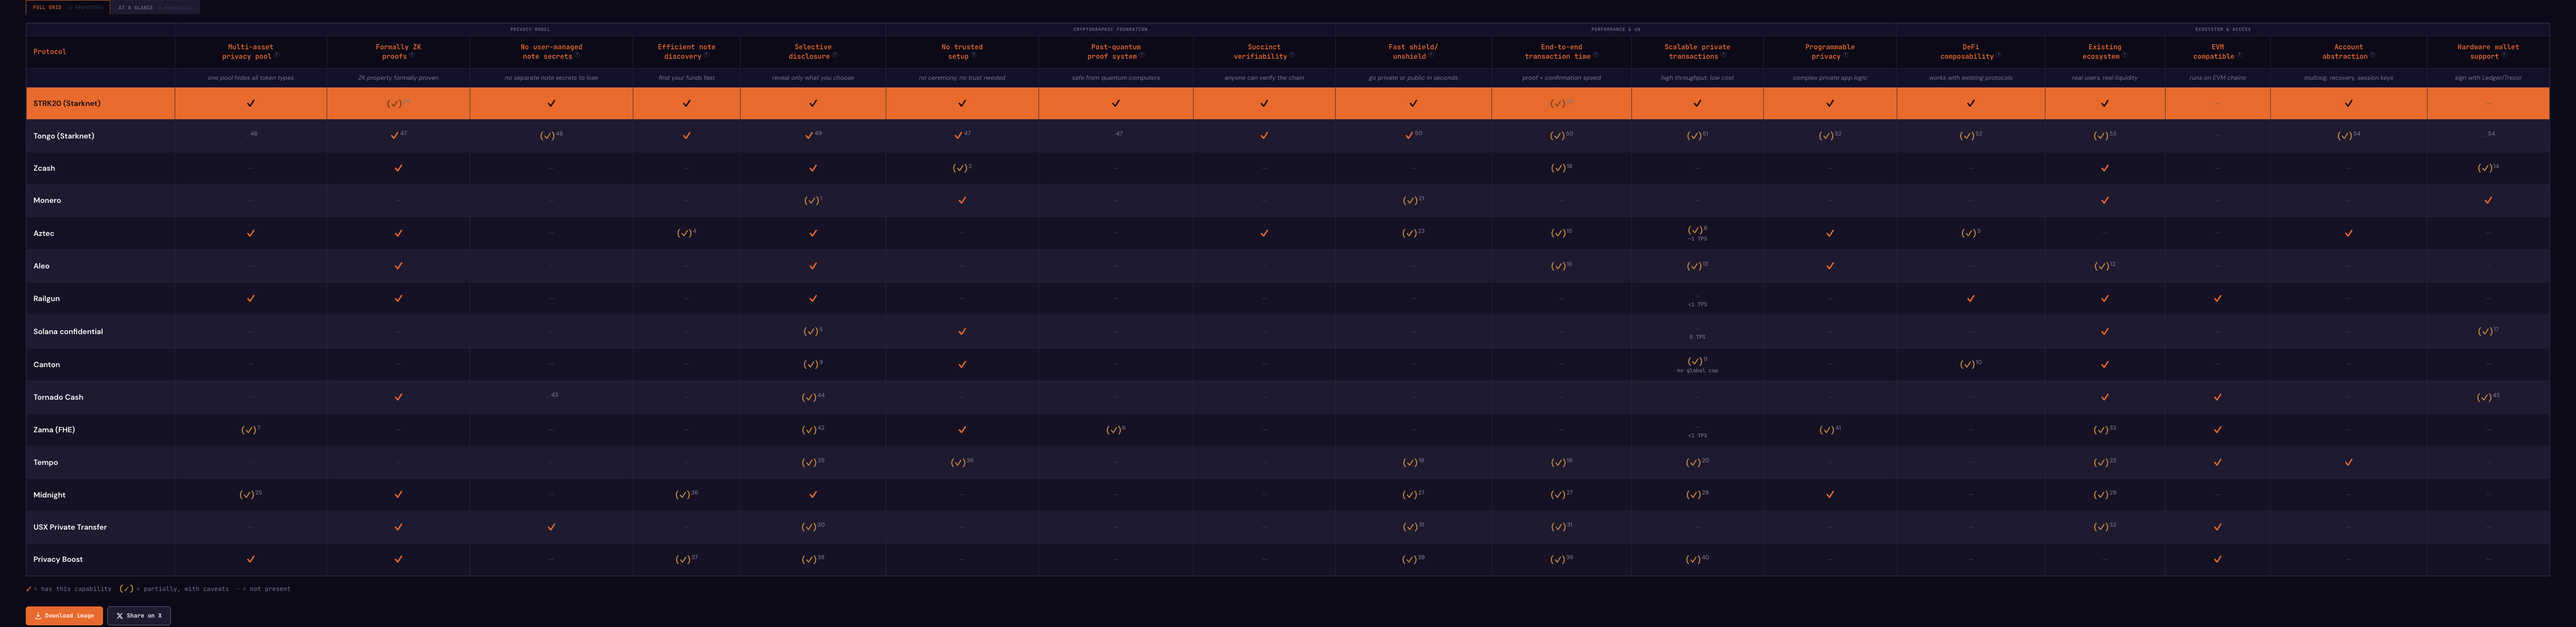
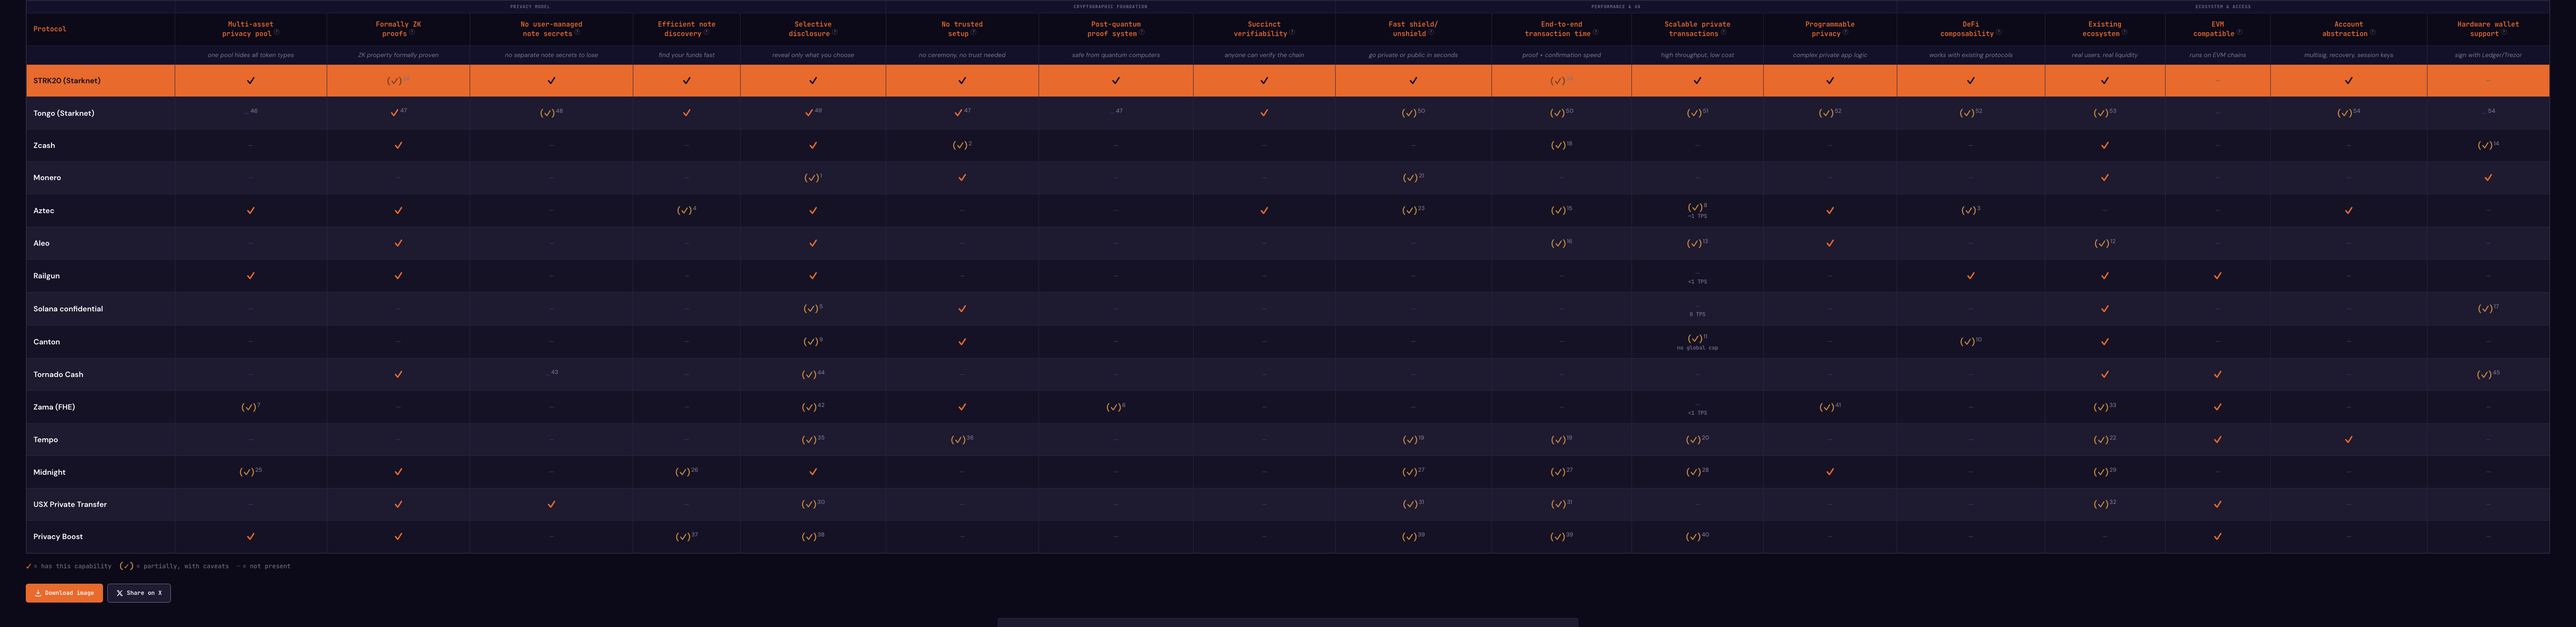
Tighten Tongo scoring

diff --git a/docs/index.html b/docs/index.html
@@ -37,7 +37,7 @@
 <!-- Open Graph -->
 <meta property="og:title" content="Privacy Protocol Grid">
 <meta property="og:description" content="What 15 crypto privacy protocols actually deliver: STRK20, Tongo, Zcash, Monero, Aztec, Aleo, Railgun, Midnight, Tempo, USX, Privacy Boost. 17 properties, sources listed in footnotes.">
-<meta property="og:image" content="https://privacygrid.dev/privacy_grid_image_v18.png">
+<meta property="og:image" content="https://privacygrid.dev/privacy_grid_image_v19.png">
 <meta property="og:image:width" content="6000">
 <meta property="og:image:height" content="1462">
 <meta property="og:url" content="https://privacygrid.dev/">
@@ -48,7 +48,7 @@
 <meta name="twitter:card" content="summary_large_image">
 <meta name="twitter:title" content="Privacy Protocol Grid">
 <meta name="twitter:description" content="15 protocols. 17 properties. Sources in footnotes.">
-<meta name="twitter:image" content="https://privacygrid.dev/privacy_grid_image_v18.png">
+<meta name="twitter:image" content="https://privacygrid.dev/privacy_grid_image_v19.png">
 <meta name="twitter:image:alt" content="Privacy Protocol Grid comparing 15 protocols across 17 properties">
 
 <link rel="icon" type="image/svg+xml" href="favicon.svg">
@@ -167,7 +167,7 @@
         <span class="legend-item"><span class="tick-dash">&ndash;</span> = not present</span>
       </div>
       <div class="share-bar">
-        <a href="privacy_grid_image_v18.png" download="privacy_protocol_grid.png" class="share-btn download-btn">
+        <a href="privacy_grid_image_v19.png" download="privacy_protocol_grid.png" class="share-btn download-btn">
           <svg width="16" height="16" viewBox="0 0 16 16" fill="none"><path d="M8 1v9m0 0L5 7m3 3l3-3M2 12v1a2 2 0 002 2h8a2 2 0 002-2v-1" stroke="currentColor" stroke-width="1.5" stroke-linecap="round" stroke-linejoin="round"/></svg>
           Download image
         </a>
@@ -211,7 +211,7 @@
         <span class="legend-item"><span class="tick-dash">&ndash;</span> = no</span>
       </div>
       <div class="share-bar">
-        <a href="privacy_at_a_glance_image_v18.png" download="privacy_at_a_glance.png" class="share-btn download-btn">
+        <a href="privacy_at_a_glance_image_v19.png" download="privacy_at_a_glance.png" class="share-btn download-btn">
           <svg width="16" height="16" viewBox="0 0 16 16" fill="none"><path d="M8 1v9m0 0L5 7m3 3l3-3M2 12v1a2 2 0 002 2h8a2 2 0 002-2v-1" stroke="currentColor" stroke-width="1.5" stroke-linecap="round" stroke-linejoin="round"/></svg>
           Download image
         </a>
@@ -379,7 +379,7 @@
 <!-- Tooltip -->
 <div class="tooltip" id="tooltip"></div>
 
-<script src="data_v20.js"></script>
+<script src="data_v21.js"></script>
 <script src="app.js?v=7"></script>
 <!-- Crawler-only prose + FAQ (visually hidden, readable by search engines and LLMs) -->
 <div class="sr-only">
